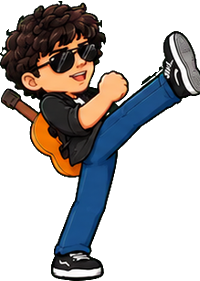
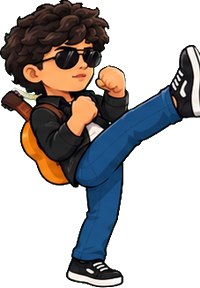
La Mocha: nueva lamina de Adam
Claude-Session: https://claude.ai/code/session_019FDnwE1yNBZjJsBSPwGXXr

diff --git a/la-mocha/index.html b/la-mocha/index.html
@@ -312,7 +312,7 @@ ROSTER.find(c=>c.name==="Bruno").spr="Bruno";
 /* ---------- Dibujo de luchadores ---------- */
 const HEADS=new Map();
 /* ---------- Sprites ilustrados ---------- */
-const SPRITES={"Ivan":{portrait:"personajes/Ivan/portrait.png",idle:{w:166,h:300,ax:89,src:"personajes/Ivan/idle.png"},punch:{w:180,h:295,ax:90,src:"personajes/Ivan/punch.png"},punch_hi:{w:183,h:287,ax:90,src:"personajes/Ivan/punch_hi.png"},upper:{w:177,h:291,ax:81,src:"personajes/Ivan/upper.png"},kick:{w:168,h:286,ax:49,src:"personajes/Ivan/kick.png"},kick_hi:{w:170,h:302,ax:51,src:"personajes/Ivan/kick_hi.png"},block:{w:156,h:286,ax:68,src:"personajes/Ivan/block.png"},crouch:{w:166,h:223,ax:91,src:"personajes/Ivan/crouch.png"},crouch_punch:{w:200,h:223,ax:102,src:"personajes/Ivan/crouch_punch.png"},crouch_kick:{w:200,h:205,ax:66,src:"personajes/Ivan/crouch_kick.png"},hit:{w:196,h:267,ax:56,src:"personajes/Ivan/hit.png"},win:{w:167,h:284,ax:79,src:"personajes/Ivan/win.png"}},"Marcelo":{portrait:"personajes/Marcelo/portrait.png",idle:{w:182,h:300,ax:83,src:"personajes/Marcelo/idle.png"},punch:{w:201,h:285,ax:94,src:"personajes/Marcelo/punch.png"},kick:{w:187,h:284,ax:55,src:"personajes/Marcelo/kick.png"},hit:{w:203,h:265,ax:62,src:"personajes/Marcelo/hit.png"},win:{w:181,h:276,ax:63,src:"personajes/Marcelo/win.png"},crouch:{w:161,h:241,ax:90,src:"personajes/Marcelo/crouch.png"},crouch_punch:{w:213,h:235,ax:120,src:"personajes/Marcelo/crouch_punch.png"},crouch_kick:{w:207,h:235,ax:60,src:"personajes/Marcelo/crouch_kick.png"},punch_hi:{w:198,h:300,ax:84,src:"personajes/Marcelo/punch_hi.png"},upper:{w:188,h:305,ax:80,src:"personajes/Marcelo/upper.png"},kick_hi:{w:193,h:310,ax:55,src:"personajes/Marcelo/kick_hi.png"},block:{w:184,h:290,ax:79,src:"personajes/Marcelo/block.png"}},"Bruno":{portrait:"personajes/Bruno/portrait.png",idle:{w:211,h:300,ax:114,src:"personajes/Bruno/idle.png"},punch:{w:250,h:299,ax:121,src:"personajes/Bruno/punch.png"},punch_hi:{w:244,h:300,ax:112,src:"personajes/Bruno/punch_hi.png"},upper:{w:206,h:300,ax:81,src:"personajes/Bruno/upper.png"},kick:{w:217,h:296,ax:81,src:"personajes/Bruno/kick.png"},kick_hi:{w:230,h:266,ax:72,src:"personajes/Bruno/kick_hi.png"},block:{w:218,h:266,ax:95,src:"personajes/Bruno/block.png"},crouch:{w:216,h:236,ax:116,src:"personajes/Bruno/crouch.png"},crouch_punch:{w:221,h:236,ax:131,src:"personajes/Bruno/crouch_punch.png"},crouch_kick:{w:235,h:264,ax:86,src:"personajes/Bruno/crouch_kick.png"},hit:{w:257,h:247,ax:62,src:"personajes/Bruno/hit.png"},win:{w:167,h:255,ax:60,src:"personajes/Bruno/win.png"}},"Karl":{portrait:"personajes/Karl/portrait.png",idle:{w:192,h:300,ax:88,src:"personajes/Karl/idle.png"},punch:{w:220,h:286,ax:112,src:"personajes/Karl/punch.png"},kick:{w:191,h:268,ax:34,src:"personajes/Karl/kick.png"},hit:{w:211,h:283,ax:32,src:"personajes/Karl/hit.png"},win:{w:202,h:317,ax:89,src:"personajes/Karl/win.png"},crouch:{w:178,h:233,ax:92,src:"personajes/Karl/crouch.png"},crouch_punch:{w:226,h:232,ax:120,src:"personajes/Karl/crouch_punch.png"},crouch_kick:{w:215,h:255,ax:52,src:"personajes/Karl/crouch_kick.png"},punch_hi:{w:209,h:306,ax:87,src:"personajes/Karl/punch_hi.png"},upper:{w:191,h:312,ax:85,src:"personajes/Karl/upper.png"},kick_hi:{w:192,h:340,ax:33,src:"personajes/Karl/kick_hi.png"},block:{w:190,h:295,ax:63,src:"personajes/Karl/block.png"}},"Klaus":{portrait:"personajes/Klaus/portrait.png",idle:{w:170,h:300,ax:84,src:"personajes/Klaus/idle.png"},punch:{w:195,h:294,ax:100,src:"personajes/Klaus/punch.png"},punch_hi:{w:194,h:296,ax:91,src:"personajes/Klaus/punch_hi.png"},upper:{w:190,h:325,ax:92,src:"personajes/Klaus/upper.png"},kick:{w:180,h:292,ax:46,src:"personajes/Klaus/kick.png"},kick_hi:{w:184,h:304,ax:47,src:"personajes/Klaus/kick_hi.png"},block:{w:169,h:287,ax:83,src:"personajes/Klaus/block.png"},crouch:{w:175,h:231,ax:100,src:"personajes/Klaus/crouch.png"},crouch_punch:{w:216,h:231,ax:116,src:"personajes/Klaus/crouch_punch.png"},crouch_kick:{w:191,h:210,ax:58,src:"personajes/Klaus/crouch_kick.png"},hit:{w:196,h:275,ax:52,src:"personajes/Klaus/hit.png"},win:{w:167,h:304,ax:67,src:"personajes/Klaus/win.png"}},"Felipe":{portrait:"personajes/Felipe/portrait.png",idle:{w:195,h:300,ax:92,src:"personajes/Felipe/idle.png"},punch:{w:207,h:292,ax:97,src:"personajes/Felipe/punch.png"},punch_hi:{w:210,h:353,ax:95,src:"personajes/Felipe/punch_hi.png"},upper:{w:198,h:285,ax:85,src:"personajes/Felipe/upper.png"},kick:{w:193,h:297,ax:55,src:"personajes/Felipe/kick.png"},kick_hi:{w:194,h:329,ax:51,src:"personajes/Felipe/kick_hi.png"},block:{w:180,h:287,ax:88,src:"personajes/Felipe/block.png"},crouch:{w:195,h:227,ax:110,src:"personajes/Felipe/crouch.png"},crouch_punch:{w:222,h:224,ax:123,src:"personajes/Felipe/crouch_punch.png"},crouch_kick:{w:213,h:214,ax:61,src:"personajes/Felipe/crouch_kick.png"},hit:{w:211,h:302,ax:51,src:"personajes/Felipe/hit.png"},win:{w:214,h:303,ax:103,src:"personajes/Felipe/win.png"}},"Adam":{portrait:"personajes/Adam/portrait.png",idle:{w:194,h:300,ax:93,src:"personajes/Adam/idle.png"},punch:{w:206,h:331,ax:97,src:"personajes/Adam/punch.png"},punch_hi:{w:208,h:295,ax:96,src:"personajes/Adam/punch_hi.png"},upper:{w:191,h:317,ax:82,src:"personajes/Adam/upper.png"},kick:{w:200,h:281,ax:64,src:"personajes/Adam/kick.png"},kick_hi:{w:191,h:309,ax:67,src:"personajes/Adam/kick_hi.png"},block:{w:196,h:338,ax:82,src:"personajes/Adam/block.png"},crouch:{w:198,h:239,ax:100,src:"personajes/Adam/crouch.png"},crouch_punch:{w:234,h:238,ax:110,src:"personajes/Adam/crouch_punch.png"},crouch_kick:{w:238,h:196,ax:73,src:"personajes/Adam/crouch_kick.png"},hit:{w:232,h:289,ax:84,src:"personajes/Adam/hit.png"},win:{w:218,h:307,ax:104,src:"personajes/Adam/win.png"}},"Lazza":{portrait:"personajes/Lazza/portrait.png",idle:{w:182,h:300,ax:92,src:"personajes/Lazza/idle.png"},punch:{w:197,h:289,ax:103,src:"personajes/Lazza/punch.png"},punch_hi:{w:197,h:306,ax:90,src:"personajes/Lazza/punch_hi.png"},upper:{w:189,h:316,ax:104,src:"personajes/Lazza/upper.png"},kick:{w:187,h:298,ax:72,src:"personajes/Lazza/kick.png"},kick_hi:{w:185,h:333,ax:70,src:"personajes/Lazza/kick_hi.png"},block:{w:170,h:285,ax:99,src:"personajes/Lazza/block.png"},crouch:{w:185,h:232,ax:114,src:"personajes/Lazza/crouch.png"},crouch_punch:{w:222,h:221,ax:131,src:"personajes/Lazza/crouch_punch.png"},crouch_kick:{w:216,h:203,ax:85,src:"personajes/Lazza/crouch_kick.png"},hit:{w:196,h:291,ax:67,src:"personajes/Lazza/hit.png"},win:{w:185,h:299,ax:97,src:"personajes/Lazza/win.png"}},"Espe":{portrait:"personajes/Espe/portrait.png",idle:{w:187,h:300,ax:93,src:"personajes/Espe/idle.png"},punch:{w:202,h:293,ax:94,src:"personajes/Espe/punch.png"},punch_hi:{w:201,h:305,ax:99,src:"personajes/Espe/punch_hi.png"},upper:{w:198,h:311,ax:98,src:"personajes/Espe/upper.png"},kick:{w:198,h:295,ax:57,src:"personajes/Espe/kick.png"},kick_hi:{w:188,h:333,ax:53,src:"personajes/Espe/kick_hi.png"},block:{w:172,h:291,ax:82,src:"personajes/Espe/block.png"},crouch:{w:181,h:233,ax:108,src:"personajes/Espe/crouch.png"},crouch_punch:{w:229,h:231,ax:116,src:"personajes/Espe/crouch_punch.png"},crouch_kick:{w:226,h:207,ax:86,src:"personajes/Espe/crouch_kick.png"},hit:{w:209,h:277,ax:60,src:"personajes/Espe/hit.png"},win:{w:167,h:315,ax:85,src:"personajes/Espe/win.png"}},"Marco":{portrait:"personajes/Marco/portrait.png",idle:{w:177,h:300,ax:98,src:"personajes/Marco/idle.png"},punch:{w:196,h:295,ax:95,src:"personajes/Marco/punch.png"},punch_hi:{w:196,h:297,ax:92,src:"personajes/Marco/punch_hi.png"},upper:{w:189,h:331,ax:88,src:"personajes/Marco/upper.png"},kick:{w:192,h:336,ax:63,src:"personajes/Marco/kick.png"},kick_hi:{w:181,h:314,ax:61,src:"personajes/Marco/kick_hi.png"},block:{w:165,h:291,ax:82,src:"personajes/Marco/block.png"},crouch:{w:174,h:228,ax:102,src:"personajes/Marco/crouch.png"},crouch_punch:{w:216,h:227,ax:114,src:"personajes/Marco/crouch_punch.png"},crouch_kick:{w:206,h:201,ax:71,src:"personajes/Marco/crouch_kick.png"},hit:{w:201,h:269,ax:56,src:"personajes/Marco/hit.png"},win:{w:209,h:294,ax:113,src:"personajes/Marco/win.png"}},"Maxi":{portrait:"personajes/Maxi/portrait.png",idle:{w:177,h:300,ax:102,src:"personajes/Maxi/idle.png"},punch:{w:197,h:288,ax:100,src:"personajes/Maxi/punch.png"},punch_hi:{w:209,h:290,ax:103,src:"personajes/Maxi/punch_hi.png"},upper:{w:198,h:322,ax:100,src:"personajes/Maxi/upper.png"},kick:{w:183,h:285,ax:50,src:"personajes/Maxi/kick.png"},kick_hi:{w:192,h:304,ax:50,src:"personajes/Maxi/kick_hi.png"},block:{w:190,h:330,ax:87,src:"personajes/Maxi/block.png"},crouch:{w:187,h:241,ax:96,src:"personajes/Maxi/crouch.png"},crouch_punch:{w:213,h:236,ax:104,src:"personajes/Maxi/crouch_punch.png"},crouch_kick:{w:218,h:205,ax:54,src:"personajes/Maxi/crouch_kick.png"},hit:{w:215,h:286,ax:59,src:"personajes/Maxi/hit.png"},win:{w:191,h:299,ax:83,src:"personajes/Maxi/win.png"}},"Marcelo Ig":{portrait:"personajes/Marcelo_Ig/portrait.png",idle:{w:183,h:300,ax:96,src:"personajes/Marcelo_Ig/idle.png"},punch:{w:196,h:290,ax:105,src:"personajes/Marcelo_Ig/punch.png"},punch_hi:{w:210,h:334,ax:100,src:"personajes/Marcelo_Ig/punch_hi.png"},upper:{w:198,h:329,ax:91,src:"personajes/Marcelo_Ig/upper.png"},kick:{w:187,h:334,ax:55,src:"personajes/Marcelo_Ig/kick.png"},kick_hi:{w:191,h:306,ax:52,src:"personajes/Marcelo_Ig/kick_hi.png"},block:{w:183,h:289,ax:85,src:"personajes/Marcelo_Ig/block.png"},crouch:{w:200,h:200,ax:93,src:"personajes/Marcelo_Ig/crouch.png"},crouch_punch:{w:207,h:261,ax:109,src:"personajes/Marcelo_Ig/crouch_punch.png"},crouch_kick:{w:200,h:261,ax:47,src:"personajes/Marcelo_Ig/crouch_kick.png"},hit:{w:210,h:253,ax:67,src:"personajes/Marcelo_Ig/hit.png"},win:{w:184,h:261,ax:83,src:"personajes/Marcelo_Ig/win.png"}},"Miguel":{portrait:"personajes/Miguel/portrait.png",idle:{w:182,h:300,ax:101,src:"personajes/Miguel/idle.png"},punch:{w:196,h:300,ax:102,src:"personajes/Miguel/punch.png"},punch_hi:{w:195,h:323,ax:99,src:"personajes/Miguel/punch_hi.png"},upper:{w:186,h:313,ax:88,src:"personajes/Miguel/upper.png"},kick:{w:190,h:287,ax:62,src:"personajes/Miguel/kick.png"},kick_hi:{w:182,h:333,ax:60,src:"personajes/Miguel/kick_hi.png"},block:{w:170,h:282,ax:91,src:"personajes/Miguel/block.png"},crouch:{w:175,h:226,ax:103,src:"personajes/Miguel/crouch.png"},crouch_punch:{w:216,h:223,ax:117,src:"personajes/Miguel/crouch_punch.png"},crouch_kick:{w:207,h:225,ax:75,src:"personajes/Miguel/crouch_kick.png"},hit:{w:211,h:282,ax:64,src:"personajes/Miguel/hit.png"},win:{w:202,h:303,ax:104,src:"personajes/Miguel/win.png"}}};
+const SPRITES={"Ivan":{portrait:"personajes/Ivan/portrait.png",idle:{w:166,h:300,ax:89,src:"personajes/Ivan/idle.png"},punch:{w:180,h:295,ax:90,src:"personajes/Ivan/punch.png"},punch_hi:{w:183,h:287,ax:90,src:"personajes/Ivan/punch_hi.png"},upper:{w:177,h:291,ax:81,src:"personajes/Ivan/upper.png"},kick:{w:168,h:286,ax:49,src:"personajes/Ivan/kick.png"},kick_hi:{w:170,h:302,ax:51,src:"personajes/Ivan/kick_hi.png"},block:{w:156,h:286,ax:68,src:"personajes/Ivan/block.png"},crouch:{w:166,h:223,ax:91,src:"personajes/Ivan/crouch.png"},crouch_punch:{w:200,h:223,ax:102,src:"personajes/Ivan/crouch_punch.png"},crouch_kick:{w:200,h:205,ax:66,src:"personajes/Ivan/crouch_kick.png"},hit:{w:196,h:267,ax:56,src:"personajes/Ivan/hit.png"},win:{w:167,h:284,ax:79,src:"personajes/Ivan/win.png"}},"Marcelo":{portrait:"personajes/Marcelo/portrait.png",idle:{w:182,h:300,ax:83,src:"personajes/Marcelo/idle.png"},punch:{w:201,h:285,ax:94,src:"personajes/Marcelo/punch.png"},kick:{w:187,h:284,ax:55,src:"personajes/Marcelo/kick.png"},hit:{w:203,h:265,ax:62,src:"personajes/Marcelo/hit.png"},win:{w:181,h:276,ax:63,src:"personajes/Marcelo/win.png"},crouch:{w:161,h:241,ax:90,src:"personajes/Marcelo/crouch.png"},crouch_punch:{w:213,h:235,ax:120,src:"personajes/Marcelo/crouch_punch.png"},crouch_kick:{w:207,h:235,ax:60,src:"personajes/Marcelo/crouch_kick.png"},punch_hi:{w:198,h:300,ax:84,src:"personajes/Marcelo/punch_hi.png"},upper:{w:188,h:305,ax:80,src:"personajes/Marcelo/upper.png"},kick_hi:{w:193,h:310,ax:55,src:"personajes/Marcelo/kick_hi.png"},block:{w:184,h:290,ax:79,src:"personajes/Marcelo/block.png"}},"Bruno":{portrait:"personajes/Bruno/portrait.png",idle:{w:211,h:300,ax:114,src:"personajes/Bruno/idle.png"},punch:{w:250,h:299,ax:121,src:"personajes/Bruno/punch.png"},punch_hi:{w:244,h:300,ax:112,src:"personajes/Bruno/punch_hi.png"},upper:{w:206,h:300,ax:81,src:"personajes/Bruno/upper.png"},kick:{w:217,h:296,ax:81,src:"personajes/Bruno/kick.png"},kick_hi:{w:230,h:266,ax:72,src:"personajes/Bruno/kick_hi.png"},block:{w:218,h:266,ax:95,src:"personajes/Bruno/block.png"},crouch:{w:216,h:236,ax:116,src:"personajes/Bruno/crouch.png"},crouch_punch:{w:221,h:236,ax:131,src:"personajes/Bruno/crouch_punch.png"},crouch_kick:{w:235,h:264,ax:86,src:"personajes/Bruno/crouch_kick.png"},hit:{w:257,h:247,ax:62,src:"personajes/Bruno/hit.png"},win:{w:167,h:255,ax:60,src:"personajes/Bruno/win.png"}},"Karl":{portrait:"personajes/Karl/portrait.png",idle:{w:192,h:300,ax:88,src:"personajes/Karl/idle.png"},punch:{w:220,h:286,ax:112,src:"personajes/Karl/punch.png"},kick:{w:191,h:268,ax:34,src:"personajes/Karl/kick.png"},hit:{w:211,h:283,ax:32,src:"personajes/Karl/hit.png"},win:{w:202,h:317,ax:89,src:"personajes/Karl/win.png"},crouch:{w:178,h:233,ax:92,src:"personajes/Karl/crouch.png"},crouch_punch:{w:226,h:232,ax:120,src:"personajes/Karl/crouch_punch.png"},crouch_kick:{w:215,h:255,ax:52,src:"personajes/Karl/crouch_kick.png"},punch_hi:{w:209,h:306,ax:87,src:"personajes/Karl/punch_hi.png"},upper:{w:191,h:312,ax:85,src:"personajes/Karl/upper.png"},kick_hi:{w:192,h:340,ax:33,src:"personajes/Karl/kick_hi.png"},block:{w:190,h:295,ax:63,src:"personajes/Karl/block.png"}},"Klaus":{portrait:"personajes/Klaus/portrait.png",idle:{w:170,h:300,ax:84,src:"personajes/Klaus/idle.png"},punch:{w:195,h:294,ax:100,src:"personajes/Klaus/punch.png"},punch_hi:{w:194,h:296,ax:91,src:"personajes/Klaus/punch_hi.png"},upper:{w:190,h:325,ax:92,src:"personajes/Klaus/upper.png"},kick:{w:180,h:292,ax:46,src:"personajes/Klaus/kick.png"},kick_hi:{w:184,h:304,ax:47,src:"personajes/Klaus/kick_hi.png"},block:{w:169,h:287,ax:83,src:"personajes/Klaus/block.png"},crouch:{w:175,h:231,ax:100,src:"personajes/Klaus/crouch.png"},crouch_punch:{w:216,h:231,ax:116,src:"personajes/Klaus/crouch_punch.png"},crouch_kick:{w:191,h:210,ax:58,src:"personajes/Klaus/crouch_kick.png"},hit:{w:196,h:275,ax:52,src:"personajes/Klaus/hit.png"},win:{w:167,h:304,ax:67,src:"personajes/Klaus/win.png"}},"Felipe":{portrait:"personajes/Felipe/portrait.png",idle:{w:195,h:300,ax:92,src:"personajes/Felipe/idle.png"},punch:{w:207,h:292,ax:97,src:"personajes/Felipe/punch.png"},punch_hi:{w:210,h:353,ax:95,src:"personajes/Felipe/punch_hi.png"},upper:{w:198,h:285,ax:85,src:"personajes/Felipe/upper.png"},kick:{w:193,h:297,ax:55,src:"personajes/Felipe/kick.png"},kick_hi:{w:194,h:329,ax:51,src:"personajes/Felipe/kick_hi.png"},block:{w:180,h:287,ax:88,src:"personajes/Felipe/block.png"},crouch:{w:195,h:227,ax:110,src:"personajes/Felipe/crouch.png"},crouch_punch:{w:222,h:224,ax:123,src:"personajes/Felipe/crouch_punch.png"},crouch_kick:{w:213,h:214,ax:61,src:"personajes/Felipe/crouch_kick.png"},hit:{w:211,h:302,ax:51,src:"personajes/Felipe/hit.png"},win:{w:214,h:303,ax:103,src:"personajes/Felipe/win.png"}},"Adam":{portrait:"personajes/Adam/portrait.png",idle:{w:186,h:300,ax:73,src:"personajes/Adam/idle.png"},punch:{w:197,h:295,ax:79,src:"personajes/Adam/punch.png"},punch_hi:{w:221,h:296,ax:93,src:"personajes/Adam/punch_hi.png"},upper:{w:198,h:326,ax:90,src:"personajes/Adam/upper.png"},kick:{w:200,h:288,ax:36,src:"personajes/Adam/kick.png"},kick_hi:{w:195,h:316,ax:33,src:"personajes/Adam/kick_hi.png"},block:{w:190,h:298,ax:77,src:"personajes/Adam/block.png"},crouch:{w:191,h:244,ax:87,src:"personajes/Adam/crouch.png"},crouch_punch:{w:229,h:240,ax:98,src:"personajes/Adam/crouch_punch.png"},crouch_kick:{w:232,h:216,ax:64,src:"personajes/Adam/crouch_kick.png"},hit:{w:230,h:280,ax:45,src:"personajes/Adam/hit.png"},win:{w:198,h:294,ax:97,src:"personajes/Adam/win.png"}},"Lazza":{portrait:"personajes/Lazza/portrait.png",idle:{w:182,h:300,ax:92,src:"personajes/Lazza/idle.png"},punch:{w:197,h:289,ax:103,src:"personajes/Lazza/punch.png"},punch_hi:{w:197,h:306,ax:90,src:"personajes/Lazza/punch_hi.png"},upper:{w:189,h:316,ax:104,src:"personajes/Lazza/upper.png"},kick:{w:187,h:298,ax:72,src:"personajes/Lazza/kick.png"},kick_hi:{w:185,h:333,ax:70,src:"personajes/Lazza/kick_hi.png"},block:{w:170,h:285,ax:99,src:"personajes/Lazza/block.png"},crouch:{w:185,h:232,ax:114,src:"personajes/Lazza/crouch.png"},crouch_punch:{w:222,h:221,ax:131,src:"personajes/Lazza/crouch_punch.png"},crouch_kick:{w:216,h:203,ax:85,src:"personajes/Lazza/crouch_kick.png"},hit:{w:196,h:291,ax:67,src:"personajes/Lazza/hit.png"},win:{w:185,h:299,ax:97,src:"personajes/Lazza/win.png"}},"Espe":{portrait:"personajes/Espe/portrait.png",idle:{w:187,h:300,ax:93,src:"personajes/Espe/idle.png"},punch:{w:202,h:293,ax:94,src:"personajes/Espe/punch.png"},punch_hi:{w:201,h:305,ax:99,src:"personajes/Espe/punch_hi.png"},upper:{w:198,h:311,ax:98,src:"personajes/Espe/upper.png"},kick:{w:198,h:295,ax:57,src:"personajes/Espe/kick.png"},kick_hi:{w:188,h:333,ax:53,src:"personajes/Espe/kick_hi.png"},block:{w:172,h:291,ax:82,src:"personajes/Espe/block.png"},crouch:{w:181,h:233,ax:108,src:"personajes/Espe/crouch.png"},crouch_punch:{w:229,h:231,ax:116,src:"personajes/Espe/crouch_punch.png"},crouch_kick:{w:226,h:207,ax:86,src:"personajes/Espe/crouch_kick.png"},hit:{w:209,h:277,ax:60,src:"personajes/Espe/hit.png"},win:{w:167,h:315,ax:85,src:"personajes/Espe/win.png"}},"Marco":{portrait:"personajes/Marco/portrait.png",idle:{w:177,h:300,ax:98,src:"personajes/Marco/idle.png"},punch:{w:196,h:295,ax:95,src:"personajes/Marco/punch.png"},punch_hi:{w:196,h:297,ax:92,src:"personajes/Marco/punch_hi.png"},upper:{w:189,h:331,ax:88,src:"personajes/Marco/upper.png"},kick:{w:192,h:336,ax:63,src:"personajes/Marco/kick.png"},kick_hi:{w:181,h:314,ax:61,src:"personajes/Marco/kick_hi.png"},block:{w:165,h:291,ax:82,src:"personajes/Marco/block.png"},crouch:{w:174,h:228,ax:102,src:"personajes/Marco/crouch.png"},crouch_punch:{w:216,h:227,ax:114,src:"personajes/Marco/crouch_punch.png"},crouch_kick:{w:206,h:201,ax:71,src:"personajes/Marco/crouch_kick.png"},hit:{w:201,h:269,ax:56,src:"personajes/Marco/hit.png"},win:{w:209,h:294,ax:113,src:"personajes/Marco/win.png"}},"Maxi":{portrait:"personajes/Maxi/portrait.png",idle:{w:177,h:300,ax:102,src:"personajes/Maxi/idle.png"},punch:{w:197,h:288,ax:100,src:"personajes/Maxi/punch.png"},punch_hi:{w:209,h:290,ax:103,src:"personajes/Maxi/punch_hi.png"},upper:{w:198,h:322,ax:100,src:"personajes/Maxi/upper.png"},kick:{w:183,h:285,ax:50,src:"personajes/Maxi/kick.png"},kick_hi:{w:192,h:304,ax:50,src:"personajes/Maxi/kick_hi.png"},block:{w:190,h:330,ax:87,src:"personajes/Maxi/block.png"},crouch:{w:187,h:241,ax:96,src:"personajes/Maxi/crouch.png"},crouch_punch:{w:213,h:236,ax:104,src:"personajes/Maxi/crouch_punch.png"},crouch_kick:{w:218,h:205,ax:54,src:"personajes/Maxi/crouch_kick.png"},hit:{w:215,h:286,ax:59,src:"personajes/Maxi/hit.png"},win:{w:191,h:299,ax:83,src:"personajes/Maxi/win.png"}},"Marcelo Ig":{portrait:"personajes/Marcelo_Ig/portrait.png",idle:{w:183,h:300,ax:96,src:"personajes/Marcelo_Ig/idle.png"},punch:{w:196,h:290,ax:105,src:"personajes/Marcelo_Ig/punch.png"},punch_hi:{w:210,h:334,ax:100,src:"personajes/Marcelo_Ig/punch_hi.png"},upper:{w:198,h:329,ax:91,src:"personajes/Marcelo_Ig/upper.png"},kick:{w:187,h:334,ax:55,src:"personajes/Marcelo_Ig/kick.png"},kick_hi:{w:191,h:306,ax:52,src:"personajes/Marcelo_Ig/kick_hi.png"},block:{w:183,h:289,ax:85,src:"personajes/Marcelo_Ig/block.png"},crouch:{w:200,h:200,ax:93,src:"personajes/Marcelo_Ig/crouch.png"},crouch_punch:{w:207,h:261,ax:109,src:"personajes/Marcelo_Ig/crouch_punch.png"},crouch_kick:{w:200,h:261,ax:47,src:"personajes/Marcelo_Ig/crouch_kick.png"},hit:{w:210,h:253,ax:67,src:"personajes/Marcelo_Ig/hit.png"},win:{w:184,h:261,ax:83,src:"personajes/Marcelo_Ig/win.png"}},"Miguel":{portrait:"personajes/Miguel/portrait.png",idle:{w:182,h:300,ax:101,src:"personajes/Miguel/idle.png"},punch:{w:196,h:300,ax:102,src:"personajes/Miguel/punch.png"},punch_hi:{w:195,h:323,ax:99,src:"personajes/Miguel/punch_hi.png"},upper:{w:186,h:313,ax:88,src:"personajes/Miguel/upper.png"},kick:{w:190,h:287,ax:62,src:"personajes/Miguel/kick.png"},kick_hi:{w:182,h:333,ax:60,src:"personajes/Miguel/kick_hi.png"},block:{w:170,h:282,ax:91,src:"personajes/Miguel/block.png"},crouch:{w:175,h:226,ax:103,src:"personajes/Miguel/crouch.png"},crouch_punch:{w:216,h:223,ax:117,src:"personajes/Miguel/crouch_punch.png"},crouch_kick:{w:207,h:225,ax:75,src:"personajes/Miguel/crouch_kick.png"},hit:{w:211,h:282,ax:64,src:"personajes/Miguel/hit.png"},win:{w:202,h:303,ax:104,src:"personajes/Miguel/win.png"}}};
 for(const name in SPRITES){const S=SPRITES[name];let n=0,need=0;
   for(const k in S){if(k==="portrait"){const im=new Image();im.onload=()=>{S.pimg=im;HEADS.clear();try{ROSTER.forEach((ch,i)=>{const c=document.querySelector("#card"+i+" canvas");if(c)portrait(c,ch)})}catch(e){}};im.src=S.portrait;continue}
     need++;const m=S[k];if(k.startsWith("crouch"))m.bent=true;const im=new Image();im.onload=()=>{m.img=im;if(++n===need){S.ok=true;HEADS.clear&&HEADS.clear();try{ROSTER.forEach((ch,i)=>{const c=document.querySelector("#card"+i+" canvas");if(c)portrait(c,ch)})}catch(e){}}};im.src=m.src}}
